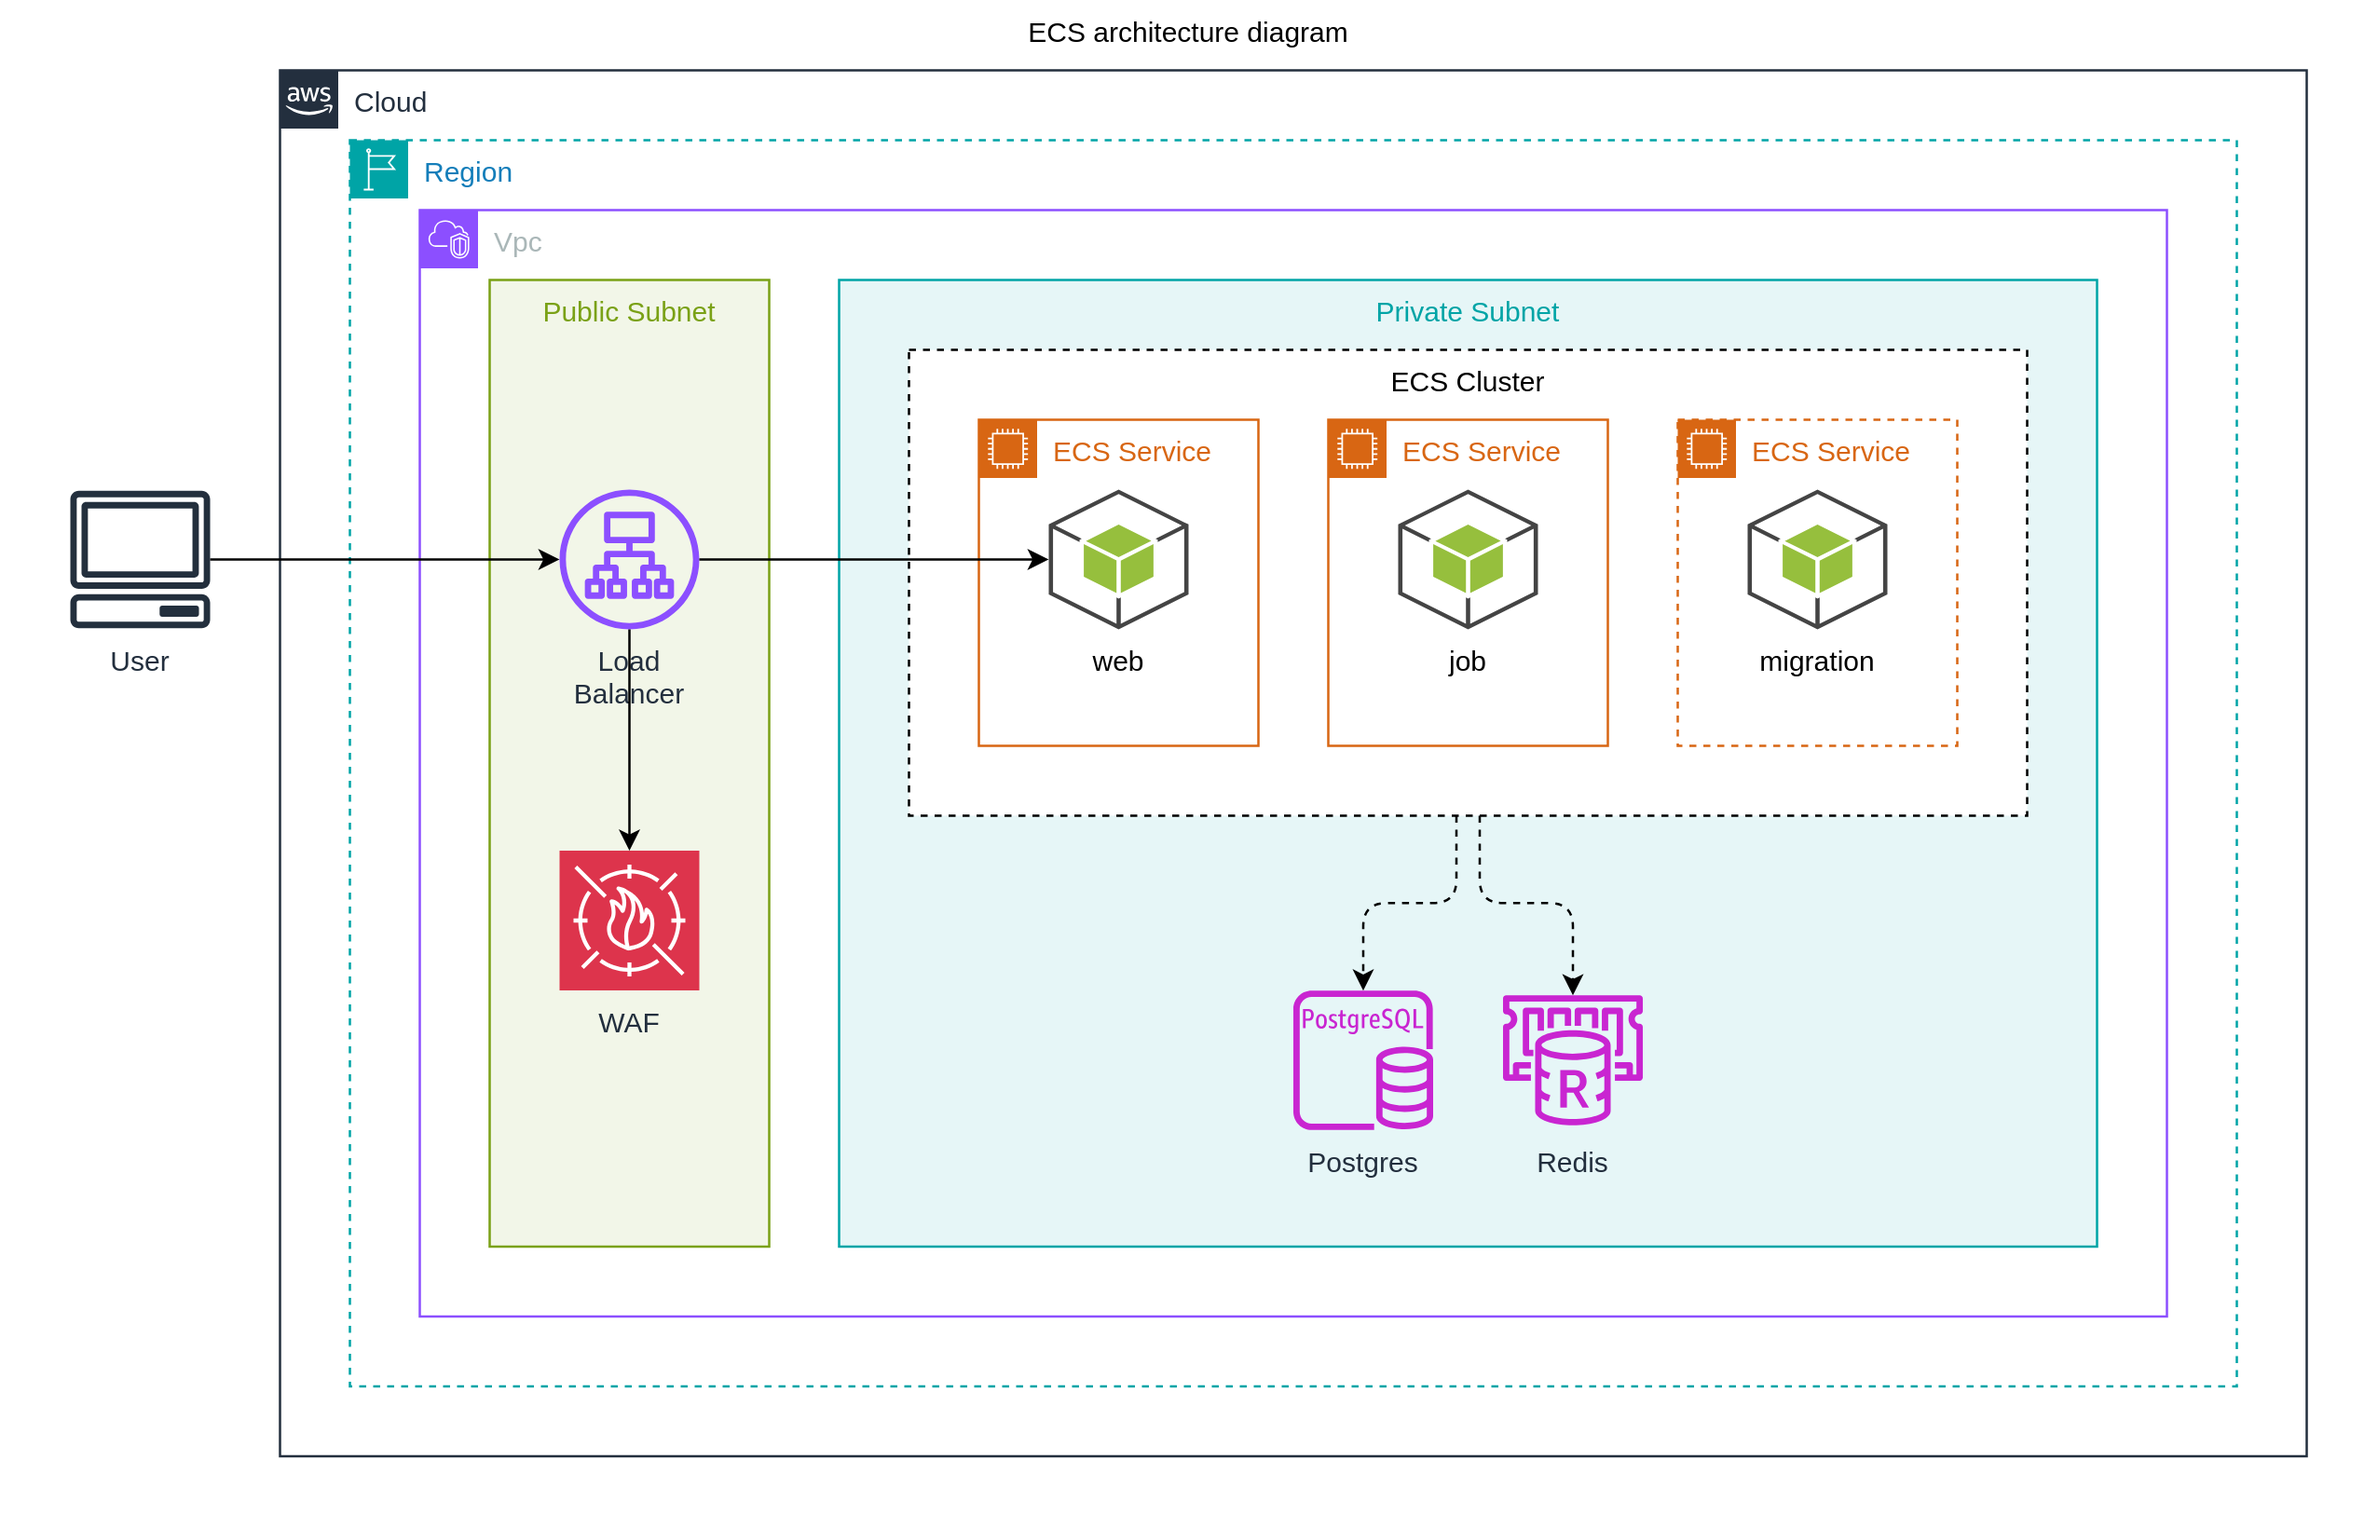
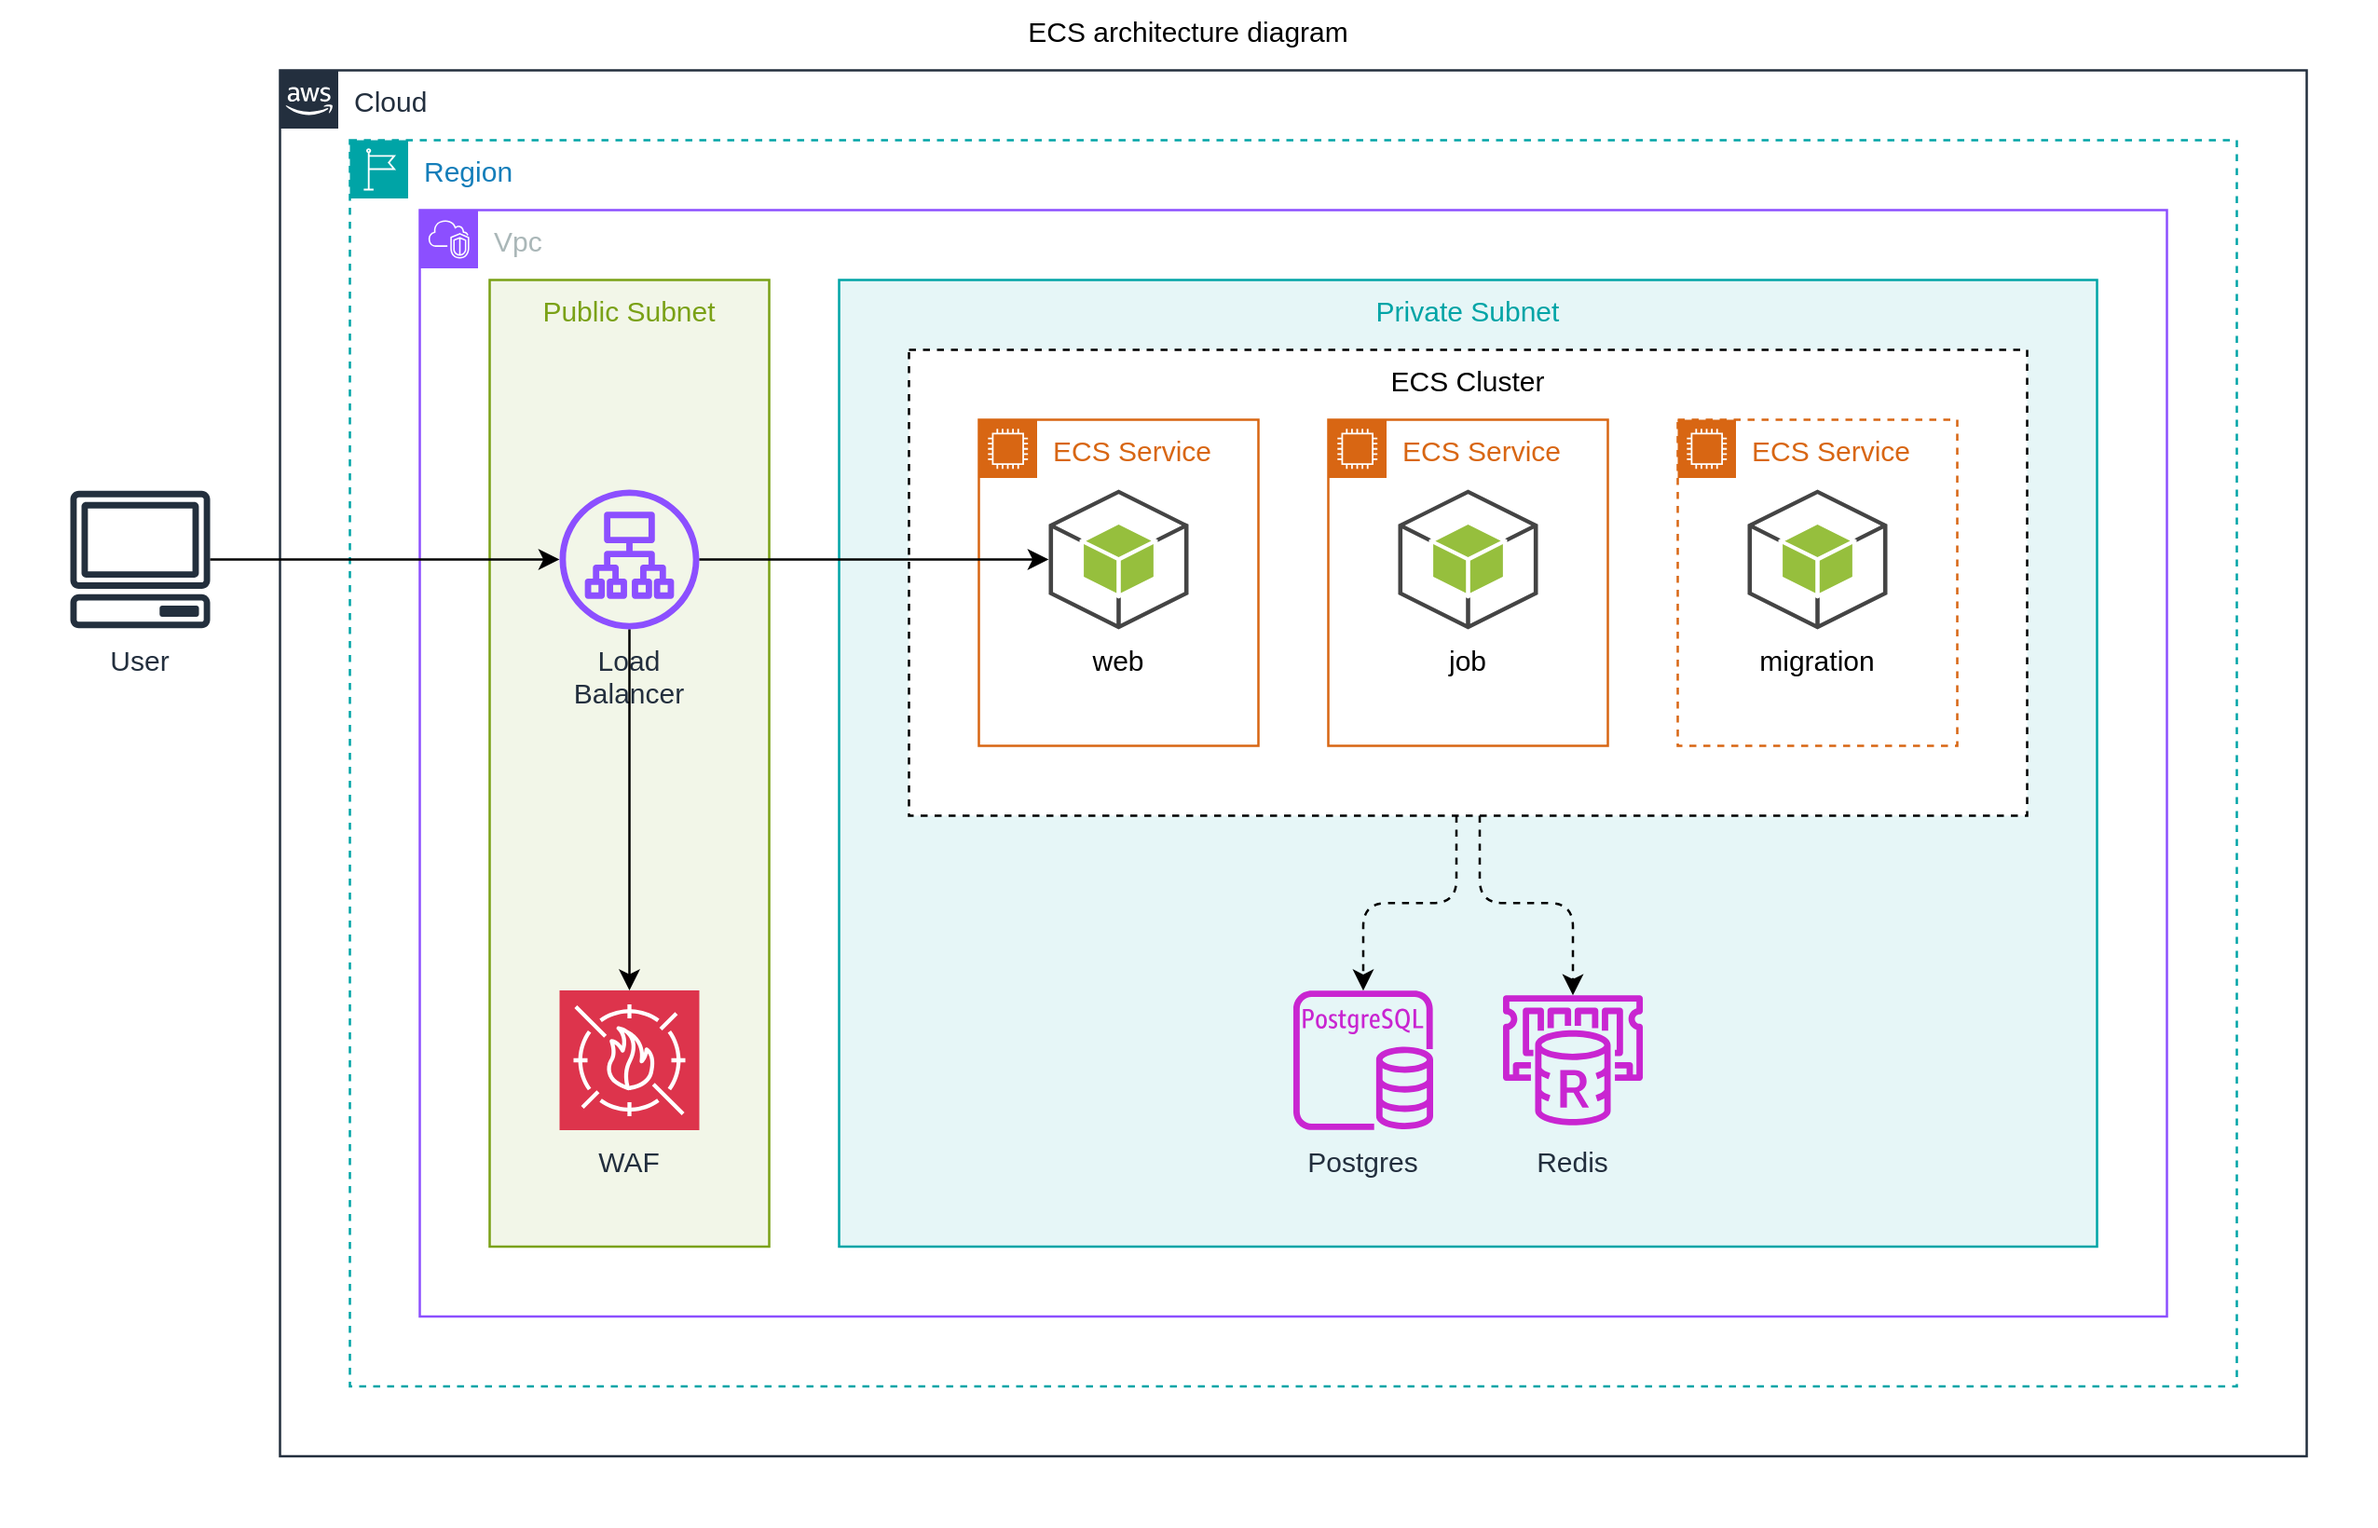
Add _margin and _padding attributes

Changed region(s): [[0.2167, 0.5287, 0.3096, 0.7774]]

diff --git a/core/base-components/src/types/diagrams.ts b/core/base-components/src/types/diagrams.ts
@@ -26,13 +26,13 @@ Diagram specific attributes
 
  */
 export const DisplaySchema = z
-  .enum(Object.keys(DisplayValues))
+  .enum(Object.keys(DisplayValues) as [keyof typeof DisplayValues])
   .meta({
     description:
       'Control on how shape to be displayed. See [example](/examples/diagrams/basic/display)',
     enumDescription: DisplayValues,
   })
-export type DisplayType = z.input<typeof DisplaySchema>
+export type DisplayType = z.output<typeof DisplaySchema>
 
 /**
 ## ArrowSchema
@@ -43,7 +43,7 @@ export const ArrowSchema = z
     description:
       'Dependency arrow styles. See [example](/examples/diagrams/basic/arrow)',
   })
-export type ArrowType = z.input<typeof ArrowSchema>
+export type ArrowType = z.output<typeof ArrowSchema>
 
 /**
 ## AlignSchema
@@ -53,7 +53,7 @@ export const AlignSchema = z.enum(['left', 'center', 'right'])
     description:
       'Horizontal alignment control. See [example](/examples/diagrams/basic/align)',
   })
-export type AlignType = z.input<typeof AlignSchema>
+export type AlignType = z.output<typeof AlignSchema>
 
 /**
 ## VerticalAlignSchema
@@ -63,7 +63,7 @@ export const VerticalAlignSchema = z.enum(['top', 'middle', 'bottom'])
     description:
       'Vertical alignment control. See [example](/examples/diagrams/basic/align)',
   })
-export type VerticalAlignType = z.input<typeof VerticalAlignSchema>
+export type VerticalAlignType = z.output<typeof VerticalAlignSchema>
 
 /**
 ## DirectionSchema
@@ -73,7 +73,18 @@ export const DirectionSchema = z.enum(['vertical', 'horizontal'])
     description:
       'Direction of children layout. Default is horizontal for container shapes. See [example](/examples/diagrams/basic/direction)',
   })
-export type DirectionType = z.input<typeof DirectionSchema>
+export type DirectionType = z.output<typeof DirectionSchema>
+
+/**
+## SpaceSchema
+
+*/
+export const SpaceSchema = z.object({
+  top: z.number().default(15).describe('Top space in pixels'),
+  bottom: z.number().default(15).describe('Bottom space in pixels'),
+  left: z.number().default(15).describe('Left space in pixels'),
+  right: z.number().default(15).describe('Right space in pixels'),
+}).meta({ hideRequired: true, description: 'Margin/padding for the shape' })
 
 /**
 ## DiagramNodeSchema
@@ -96,6 +107,8 @@ export const DiagramNodeSchema = z.object({
   _y: ResolvableNumberSchema.optional().describe(
     'Y position of the shape for absolute layout',
   ),
+  _margin: SpaceSchema.optional(),
+  _padding: SpaceSchema.optional(),
   _display: DisplaySchema.optional(),
   _distributed: ResolvableBooleanSchema.optional().describe(
     'Children are distributed evenly within a container when there is extra space by default. However dependency layout algorithms may change this behavior. This attribute will prevent shape to be moved by dependency layout algorithms.',
@@ -125,4 +138,4 @@ export const DiagramNodeSchema = z.object({
   ).meta({ hidden: true }),
 }).meta({ hideRequired: true, hideDefault: true })
 
-export type DiagramNodeType = z.input<typeof DiagramNodeSchema>
+export type DiagramNodeType = z.output<typeof DiagramNodeSchema>

diff --git a/core/base-components/src/types/base.ts b/core/base-components/src/types/base.ts
@@ -1,5 +1,11 @@
 import z, { type ZodType } from 'zod'
 
+export const CallableSchema = z.function({
+  input: z.tuple([]).rest(z.any()),
+  output: z.any(),
+})
+export type CallableType = z.output<typeof CallableSchema>
+
 export const resolvable = <T extends ZodType>(_schema: T): ZodType<T> =>
   z.function({
     input: [z.any()],
@@ -9,11 +15,8 @@ export const resolvable = <T extends ZodType>(_schema: T): ZodType<T> =>
 export const resolvableValue = <T extends z.ZodType>(schema: T) =>
   z.union([
     schema,
-    resolvable(schema),
-    z.function({
-      input: [z.any()],
-      output: z.any(),
-    }),
+    // resolvable(schema),
+    CallableSchema,
   ])
 export const StringSchema = z.string()
 export const ResolvableStringSchema = resolvableValue(z.string()).meta({
@@ -29,13 +32,15 @@ export const StringOrArraySchema = z.union([z.string(), z.string().array()])
 
 export const ResolvableNumberSchema = resolvableValue(z.number())
 
-export const ResolvableBooleanSchema = resolvableValue(z.boolean())
+// export const ResolvableNumberSchema = z.union([
+//     z.number(),
+//     z.function({/''
+//       input: [z.any()],
+//       output: z.any(),
+//     }),
+//   ])
 
-export const CallableSchema = z.function({
-  input: [z.any()],
-  output: z.any(),
-})
-export type CallableType = z.input<typeof CallableSchema>
+export const ResolvableBooleanSchema = resolvableValue(z.boolean())
 
 export const RecordSchema = z.record(z.string(), z.unknown()).meta({
   typeText: '&lt;string:any&gt;',
@@ -126,11 +131,6 @@ export const LifecycleSchema = z.object({
   }),
 }).meta({ hideRequired: true, hideDefault: true })
 
-export const ReactPropsSchema = z.object({
-  key: z.any().optional(),
-  ref: z.any().optional(),
-})
 export type BaseNodeType =
-  & z.input<typeof ReactPropsSchema>
-  & z.input<typeof BaseAttributesSchema>
-  & z.input<typeof LifecycleSchema>
+  & z.output<typeof BaseAttributesSchema>
+  & z.output<typeof LifecycleSchema>

diff --git a/core/diagrams/src/composites/sequence-diagram/participant.tsx b/core/diagrams/src/composites/sequence-diagram/participant.tsx
@@ -29,26 +29,18 @@ export function Participant(
   return (
     <Rows>
       <Icon
-        _diagram={{
-          dimension: {
-            margin: {
-              left: paddingX / 2,
-              right: paddingX / 2,
-              bottom: hasIcon ? paddingY / 2 : 0,
-            },
-          },
+        _margin={{
+          left: paddingX / 2,
+          right: paddingX / 2,
+          bottom: hasIcon ? paddingY / 2 : 0,
         }}
         {...props}
       />
       <Shape
         _style='line;strokeWidth=1;direction=south;html=1;dashed=1;'
         _height={dashedLineHeight}
-        _diagram={{
-          dimension: {
-            margin: {
-              top: 0,
-            },
-          },
+        _margin={{
+          top: 0,
         }}
         title=' '
       />

diff --git a/cli/src/shared/types.ts b/cli/src/shared/types.ts
@@ -9,7 +9,7 @@ export const ItemSchema = z.object({
   title: z.string().optional(),
   disabled: z.boolean().optional(),
 })
-export type Item = z.input<typeof ItemSchema>
+export type Item = z.output<typeof ItemSchema>
 
 export const StackSchema = z.object({
   id: z.string(),
@@ -27,11 +27,11 @@ export const StackSchema = z.object({
   mainAutoDeploy: z.boolean().default(false),
 })
 
-export type StackType = z.input<typeof StackSchema>
+export type StackType = z.output<typeof StackSchema>
 
 export const StacksSchema = z.record(z.string(), StackSchema.passthrough())
 
-export type Stacks = z.input<typeof StacksSchema>
+export type Stacks = z.output<typeof StacksSchema>
 
 export const DEFAULT_APP = 'app'
 export const DEFAULT_STAGE = 'main'

diff --git a/core/base-components/src/cli-shared/types.ts b/core/base-components/src/cli-shared/types.ts
@@ -9,7 +9,7 @@ export const ItemSchema = z.object({
   title: z.string().optional(),
   disabled: z.boolean().optional(),
 })
-export type Item = z.input<typeof ItemSchema>
+export type Item = z.output<typeof ItemSchema>
 
 export const StackSchema = z.object({
   id: z.string(),
@@ -27,11 +27,11 @@ export const StackSchema = z.object({
   mainAutoDeploy: z.boolean().default(false),
 })
 
-export type StackType = z.input<typeof StackSchema>
+export type StackType = z.output<typeof StackSchema>
 
 export const StacksSchema = z.record(z.string(), StackSchema.passthrough())
 
-export type Stacks = z.input<typeof StacksSchema>
+export type Stacks = z.output<typeof StacksSchema>
 
 export const DEFAULT_APP = 'app'
 export const DEFAULT_STAGE = 'main'

diff --git a/core/base-components/src/types/node.ts b/core/base-components/src/types/node.ts
@@ -6,6 +6,8 @@ import { IacNodeType } from './iac.ts'
 
 export type ReactNodeTree = {
   children?: ReactNode
+  key?: any
+  ref?: any
   _node?: NodeTree
   _dependsOn?: string | string[]
   _dependsBy?: string | string[]
@@ -14,13 +16,14 @@ export type Renderer = (node: ReactNodeTree) => ReactNode
 
 //TODO: convert to schema instead of enum in base
 export const DependsSchema = z.enum(['_dependsOn', '_dependsBy'])
-export type DependsType = z.input<typeof DependsSchema>
+export type DependsType = z.output<typeof DependsSchema>
 
 export type NodeProps =
   & BaseNodeType
   & IacNodeType
   & DiagramNodeType
   & ReactNodeTree
+  & Record<string, unknown>
 
 export type NodeTree = {
   _parent?: NodeTree

diff --git a/sites/www/src/docs/examples/step-by-step/step-3-draw-io/app.tsx b/sites/www/src/docs/examples/step-by-step/step-3-draw-io/app.tsx
@@ -6,6 +6,8 @@ import { PostgreSqlInstance } from "@dinghy/diagrams/entitiesAwsDatabase";
 import { ApplicationLoadBalancer } from "@dinghy/diagrams/entitiesAwsNetworkContentDelivery";
 import { Waf } from "@dinghy/diagrams/entitiesAwsSecurityIdentityCompliance";
 
+import type { NodeProps } from '@dinghy/base-components'
+
 export default function App() {
     return (
         <WebApp>
@@ -38,7 +40,7 @@ const PrivateSubnet = (props: any) => (
     <awsGroups.PrivateSubnet _direction="vertical" {...props} />
 );
 
-const LoadBalancer = (props: any) => (
+const LoadBalancer = (props: NodeProps) => (
     <ApplicationLoadBalancer
         _dependsOn={["Firewall", "Application"]}
         {...props}

diff --git a/sites/www/src/docs/examples/diagrams/architecture/ecs.tsx b/sites/www/src/docs/examples/diagrams/architecture/ecs.tsx
@@ -76,14 +76,8 @@ function PrivateSubnet(props: NodeProps) {
 function LoadBalancer(props: NodeProps) {
   return (
     <ApplicationLoadBalancer
-      _width={60}
-      _height={60}
-      _diagram={{
-        dimension: {
-          margin: {
-            bottom: 60,
-          },
-        },
+      _margin={{
+        bottom: 120,
       }}
       {...props}
     />
@@ -95,12 +89,8 @@ function ECSCluster(props: NodeProps) {
     <Shape
       _display="inactive"
       {...props}
-      _diagram={{
-        dimension: {
-          margin: {
-            bottom: 60,
-          },
-        },
+      _margin={{
+        bottom: 60,
       }}
     />
   );

diff --git a/cli/src/shared/stackUtils.ts b/cli/src/shared/stackUtils.ts
@@ -6,6 +6,7 @@ import {
   Item,
   Props,
   Stacks,
+  StackSchema,
   StacksSchema,
   StackType,
 } from './types.ts'
@@ -16,11 +17,11 @@ const parseStackFromId = (stackId: string): StackType => {
   const segments = stackId.split('-')
   const split = Math.floor(segments.length / 2)
   const name = segments.slice(0, split).join('-')
-  return {
+  return StackSchema.parse({
     id: stackId,
     name: name || undefined,
     env: stackId === DEFAULT_APP ? undefined : segments.slice(split).join('-'),
-  }
+  })
 }
 
 const populateNamedItems = (

diff --git a/core/base-components/src/cli-shared/stackUtils.ts b/core/base-components/src/cli-shared/stackUtils.ts
@@ -6,6 +6,7 @@ import {
   Item,
   Props,
   Stacks,
+  StackSchema,
   StacksSchema,
   StackType,
 } from './types.ts'
@@ -16,11 +17,11 @@ const parseStackFromId = (stackId: string): StackType => {
   const segments = stackId.split('-')
   const split = Math.floor(segments.length / 2)
   const name = segments.slice(0, split).join('-')
-  return {
+  return StackSchema.parse({
     id: stackId,
     name: name || undefined,
     env: stackId === DEFAULT_APP ? undefined : segments.slice(split).join('-'),
-  }
+  })
 }
 
 const populateNamedItems = (

diff --git a/core/renderer-drawio/src/attribute-handler/index.ts b/core/renderer-drawio/src/attribute-handler/index.ts
@@ -13,6 +13,7 @@ import { _distributed } from './_distributed.ts'
 import { _image } from './_image.ts'
 import { _mxGraphModel } from './_mxGraphModel.ts'
 import { simpleStyleAttribute } from './simpleStyleAttribute.ts'
+import { space } from './space.ts'
 import { DrawioRenderOptions } from '../types.ts'
 
 const noOp = () => {
@@ -27,6 +28,8 @@ const attributesHandlers: Props = {
   _display,
   _width,
   _height,
+  _margin: space('margin'),
+  _padding: space('padding'),
   _arrow,
   _distributed,
   _image,

diff --git a/core/base-components/src/types/iac.ts b/core/base-components/src/types/iac.ts
@@ -40,4 +40,4 @@ export const IacNodeSchema = z.object({
   _category: z.union([IacCategorySchema, resolvable(z.string())]).optional(),
 })
 
-export type IacNodeType = z.input<typeof IacNodeSchema>
+export type IacNodeType = z.output<typeof IacNodeSchema>
